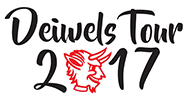
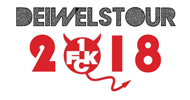
Aktualisierung STartseite

diff --git a/index.html b/index.html
@@ -45,7 +45,6 @@ title: 1.FC Kaiserslautern Triathlon Team
 				Schwimmtraining:
 Dienstags, 18:30 Uhr in Enkenbach-Alsenborn, Polizeischule<br>
 Donnerstags, 17:00 Uhr in Kaiserslautern, Schulzentrum-Süd<br>
-Allen Triathleten eine schöne Saisonpause und Off-Season<br>
 Ab November geht es wieder weiter mit Mountainbikegruppe, Athletiktrainng und
 Lauftraining<br><a href="http://fck-triathlon-team.github.io/training.html">Hier</a> gehts zu den Angeboten und Trainingszeiten.<br><br>
 				<br>
@@ -56,7 +55,7 @@ Lauftraining<br><a href="http://fck-triathlon-team.github.io/training.html">Hier
 		<div class="col-lg-4">
 			
                                 <img src="images/Deiwelstour.png"><br><br>
-				Die Termine für die Deiwels Tour 2017 stehen fest...<br> <a href="http://fck-triathlon-team.github.io/deiwelstour.html">Hier</a> geht's zur Übersicht.
+				Die Termine für die Deiwels Tour 2018 stehen fest...<br> <a href="http://fck-triathlon-team.github.io/deiwelstour.html">Hier</a> geht's zur Übersicht.
 			
 
 		</div><!-- /.col-lg-4 -->
